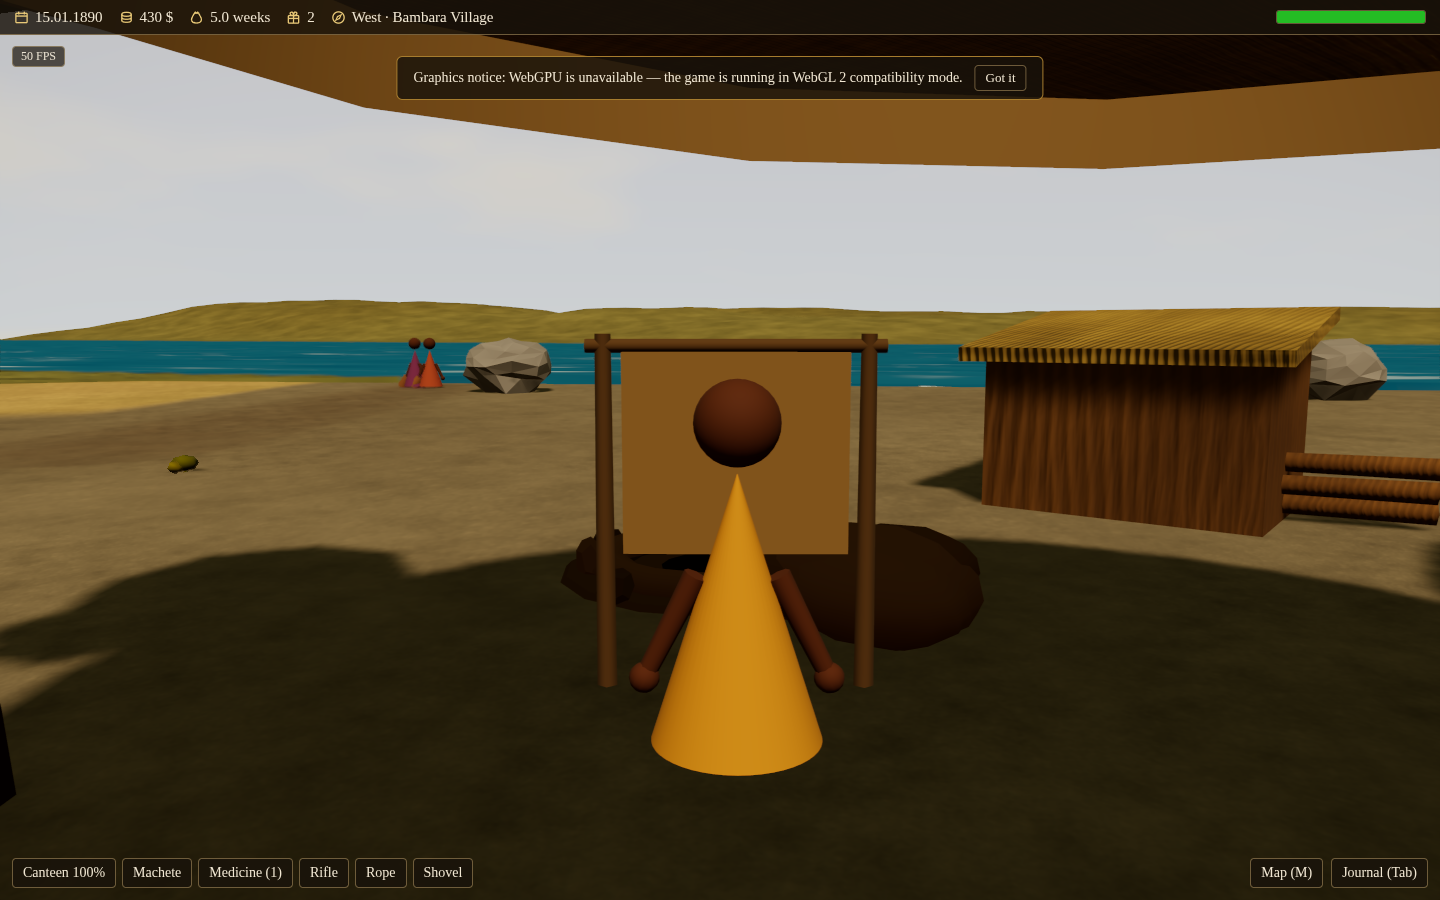
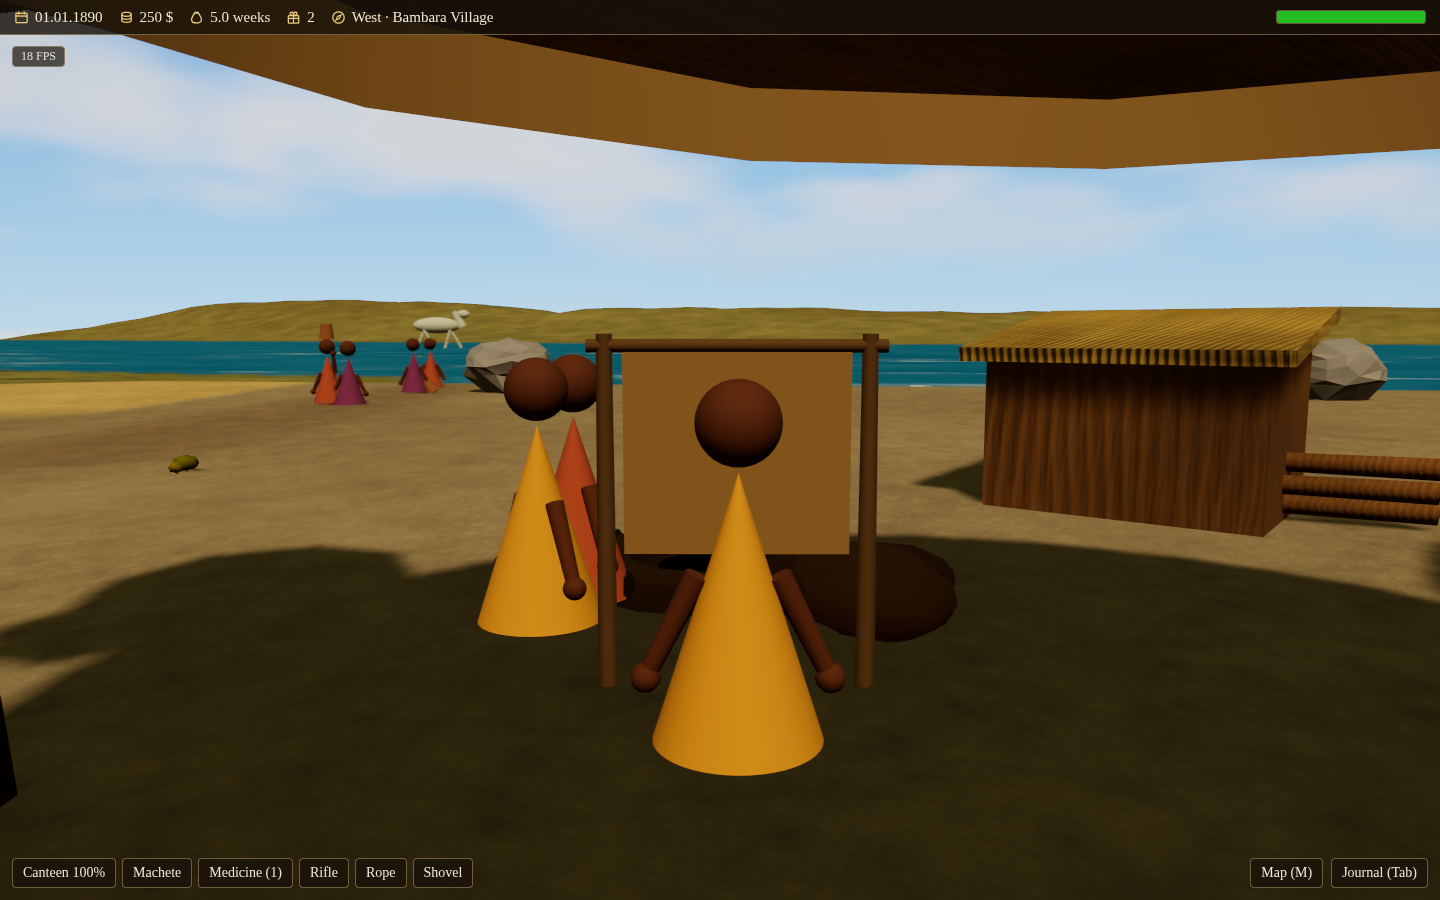
Draw the fill, and keep the head round through the squat
The pose reaches the picture. A villager can be held at the bottom of the dip
through the dev route the verification poses him by — the errand itself still
flips the jar with no act in between, which is the other point's half — and the
frame loop draws the sink as the y-squash on his own group, exactly as the
crouching child's is drawn.

Three frames were needed to see what the pose actually does, and each one found a
different thing hiding it. The first stood three metres from whoever came first
and photographed a thicket of ten cones. The second isolated him but took him
from his right, so the carrying arm and the jar went behind his own cone. The
third finally showed both — and showed that the squash was flattening his head
into a disc hovering over a traffic cone, because a group scale reaches the skull
as readily as the body. A squat shortens a man; it does not deflate his head. So
`Figure` reads the caller's squash and keeps the head round through it, and what
the frame shows now is a crouched man with a jar down at his feet.

diff --git a/src/scenes/place/PlaceLife.tsx b/src/scenes/place/PlaceLife.tsx
@@ -32,6 +32,8 @@ import {
   aimAt,
   armAim,
   digPose,
+  fillPose,
+  fillSquat,
   gesturePose,
   isGesturing,
   REST_POSE,
@@ -241,6 +243,7 @@ function Figure({
   pose,
   limbs,
   gait,
+  squat,
   handProp,
 }: {
   cloth: string
@@ -256,6 +259,12 @@ function Figure({
   gesture?: RefObject<GestureState>
   /** A pose written by the caller each frame; wins over `gesture` when set. */
   pose?: RefObject<FigurePose | null>
+  /** The y-squash the CALLER is applying to this figure's own group, read every
+   *  frame so the head can be kept round through it (work-order 1085). A squat
+   *  shortens a man; it does not flatten his skull, and a sphere squashed to
+   *  seven tenths reads as a deflated ball hovering over a traffic cone — which
+   *  is what the first two frames of the fill showed. */
+  squat?: RefObject<number>
   /** Where to publish this figure's own pivots. A caller that supplies BOTH
    *  this and `pose` owns the application and applies it itself, in the frame
    *  it writes it — see `applyFigurePose` (work-order 1065). */
@@ -287,6 +296,7 @@ function Figure({
   // and the arm clearance pinned in figures.test.ts holds for every figure.
   const trunkRadius = L.bodyRadius * (trunkH / bodyH)
   const trunk = useRef<THREE.Group>(null)
+  const head = useRef<THREE.Mesh>(null)
   const arms = useRef<Array<THREE.Group | null>>([])
   const legPivots = useRef<Array<THREE.Group | null>>([])
   // A PIVOT IS PUT AT REST WHEN IT IS BORN, NOT AT EVERY RENDER (work-order
@@ -322,6 +332,11 @@ function Figure({
     if (shown && !owned) {
       selfLimbs.current.trunk = trunk.current
       applyFigurePose(selfLimbs.current, shown)
+    }
+    // The head, kept round through the caller's squash (work-order 1085).
+    if (head.current) {
+      const squash = squat?.current ?? 1
+      head.current.scale.y = squash > 0.01 ? 1 / squash : 1
     }
     if (withLegs && gait) {
       const phase = gait.current ?? 0
@@ -375,7 +390,7 @@ function Figure({
         )}
         {/* The head shows unless the wrap is drawn over it. */}
         {!(wrap && cold!.wear === 'head') && (
-          <mesh position={[0, bodyH + 0.18 - hipY, 0]} castShadow>
+          <mesh ref={head} position={[0, bodyH + 0.18 - hipY, 0]} castShadow>
             <sphereGeometry args={[0.16, ...TESSELLATION.figureHead]} />
             <meshStandardMaterial color={skin} roughness={0.85} />
           </mesh>
@@ -2409,6 +2424,14 @@ function ErrandVillagers({
   const handJars = useRef<Array<THREE.Object3D | null>>([])
   const digTools = useRef<Array<THREE.Object3D | null>>([])
   const reportedStrikes = useRef<number[]>([])
+  /** A villager PINNED into the fill, by index and progress — the dev route the
+   *  verification poses one by, since the errand itself does not dip yet
+   *  (work-order 1085 owes the pose, 1087 owes the act that drives it). Null
+   *  outside a forced frame, which is every real run. */
+  const forcedFill = useRef<{ who: number; progress: number; facing: number | null } | null>(null)
+  /** Each villager's live y-squash, so his own Figure can keep his head round
+   *  through it. Written by the frame loop below, read by the Figure. */
+  const squats = useRef<Array<{ current: number }>>([])
   const rim = Math.max(1, radius - NPC_RADIUS * 2)
 
   /** Every place a villager may stroll to of its own accord: the head of the
@@ -2733,12 +2756,28 @@ function ErrandVillagers({
       if (handJar) handJar.visible = carry === 'emptyJar'
       if (digTool) digTool.visible = carry === 'digTool'
 
-      // The pose: digging wins over everything, then the gesture, then the load
-      // on the head, then rest.
+      // The pose: a fill wins over everything, then digging, then the gesture,
+      // then the load on the head, then rest.
       const pose = poses.current[i].current
       const gesture = gestures.current[i]
       gesture.current = advanceGesture(gesture.current, dt)
-      if (isDigging(work, i)) {
+      const filling = forcedFill.current?.who === i ? forcedFill.current.progress : null
+      if (filling !== null) {
+        state.dug = 0
+        // The jar rides the dipping hand of its own accord — it hangs inside the
+        // arm pivot — so the fill needs no prop of its own, only the empty jar
+        // shown and the body that takes it down (design.md §13.4).
+        if (headJar) headJar.visible = false
+        if (handJar) handJar.visible = true
+        if (digTool) digTool.visible = false
+        const dip = fillPose(filling)
+        if (pose) {
+          pose.left = dip.left
+          pose.right = dip.right
+          pose.lean = dip.lean
+          pose.turn = dip.turn
+        }
+      } else if (isDigging(work, i)) {
         state.dug += dt
         const siteIndex = task?.siteIndex
         const site = siteIndex === null || siteIndex === undefined ? null : geography.digSites[siteIndex]
@@ -2776,7 +2815,16 @@ function ErrandVillagers({
         // The same walking bob the other inhabitants ride, off the distance this
         // villager has actually covered rather than off a wall clock.
         g.position.set(me.x, Math.abs(Math.sin(state.walked * 3.4 + i * 2)) * 0.05, me.z)
+        const facing = forcedFill.current?.who === i ? forcedFill.current.facing : null
+        if (facing !== null) yaws.current[i] = facing
         g.rotation.y = yaws.current[i]
+        // THE SINK, which is half of what makes a fill read as fetching rather
+        // than as falling: a y-squash on the figure's own group, exactly as the
+        // crouching child's is drawn (work-order 1085).
+        const squash = filling === null ? 1 : fillSquat(filling)
+        g.scale.set(1, squash, 1)
+        const squatRef = squats.current[i]
+        if (squatRef) squatRef.current = squash
       }
     }
 
@@ -2813,11 +2861,27 @@ function ErrandVillagers({
       digProgress: digProgressOf(work, geography.digSites.length),
       villagers: people.map((p, i) => {
         const task = taskOf(work, i)
+        // WHAT IS ACTUALLY DRAWN, not what the pose intended (work-order 1085):
+        // the squash on the figure's own group and the world height its carrying
+        // hand reached. A fill is judged by the body that arrived at the water,
+        // and re-deriving either from the pose would prove only that the maths
+        // agrees with itself.
+        const g = refs.current[i]
+        let handY = null
+        if (g) {
+          g.updateWorldMatrix(true, true)
+          g.traverse((o) => {
+            if (o.name === 'hand-left') handY = o.getWorldPosition(new THREE.Vector3()).y
+          })
+        }
         return {
           x: p.x,
           z: p.z,
           free: p.free,
           digging: isDigging(work, i),
+          filling: forcedFill.current?.who === i ? forcedFill.current.progress : null,
+          yaw: yaws.current[i] ?? 0,
+          drawn: { squatY: g ? g.scale.y : null, handY },
           carry: carryOf(work, i),
           work: task
             ? { situation: task.situation, phase: task.phase, x: task.x, z: task.z, arrived: task.arrived }
@@ -2825,8 +2889,17 @@ function ErrandVillagers({
         }
       }),
     })
+    // Pins one villager into the fill pose at a given progress, or releases him
+    // with `null`. It is the only thing that dips anybody today: the errand
+    // still flips 'emptyJar' to 'fullJar' with no act in between, which is
+    // work-order 1087's half. This exists so the POSE the design decided on can
+    // be photographed on the figure it belongs to (work-order 1085).
+    w.__placeForceFill = (who: number | null, progress = 0.5, facing: number | null = null) => {
+      forcedFill.current = who === null ? null : { who, progress, facing }
+    }
     return () => {
       delete w.__placeErrands
+      delete w.__placeForceFill
     }
   }, [work, people, geography])
 
@@ -2849,6 +2922,7 @@ function ErrandVillagers({
             cloth={cloth[i % cloth.length]}
             pose={poses.current[i]}
             limbs={limbs.current[i]}
+            squat={(squats.current[i] ??= { current: 1 })}
             handProp={
               <>
                 <mesh
